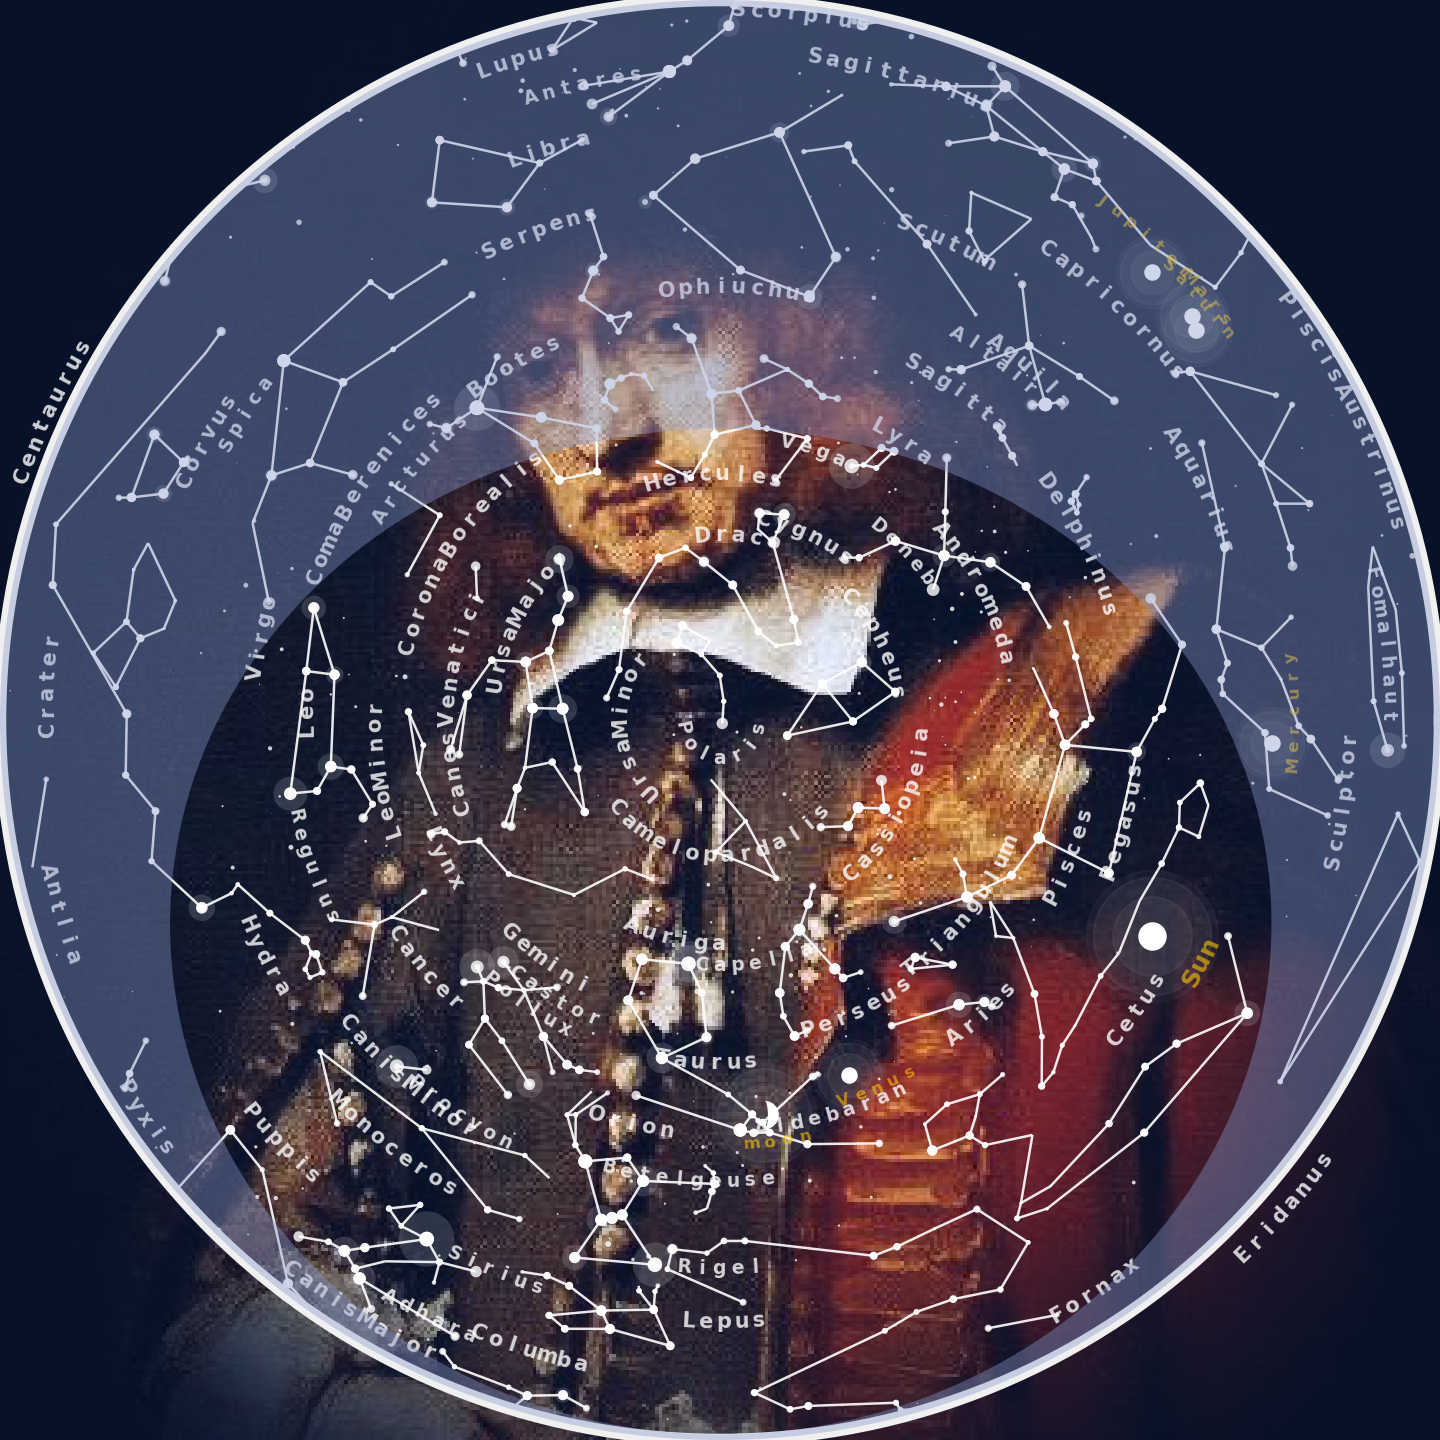
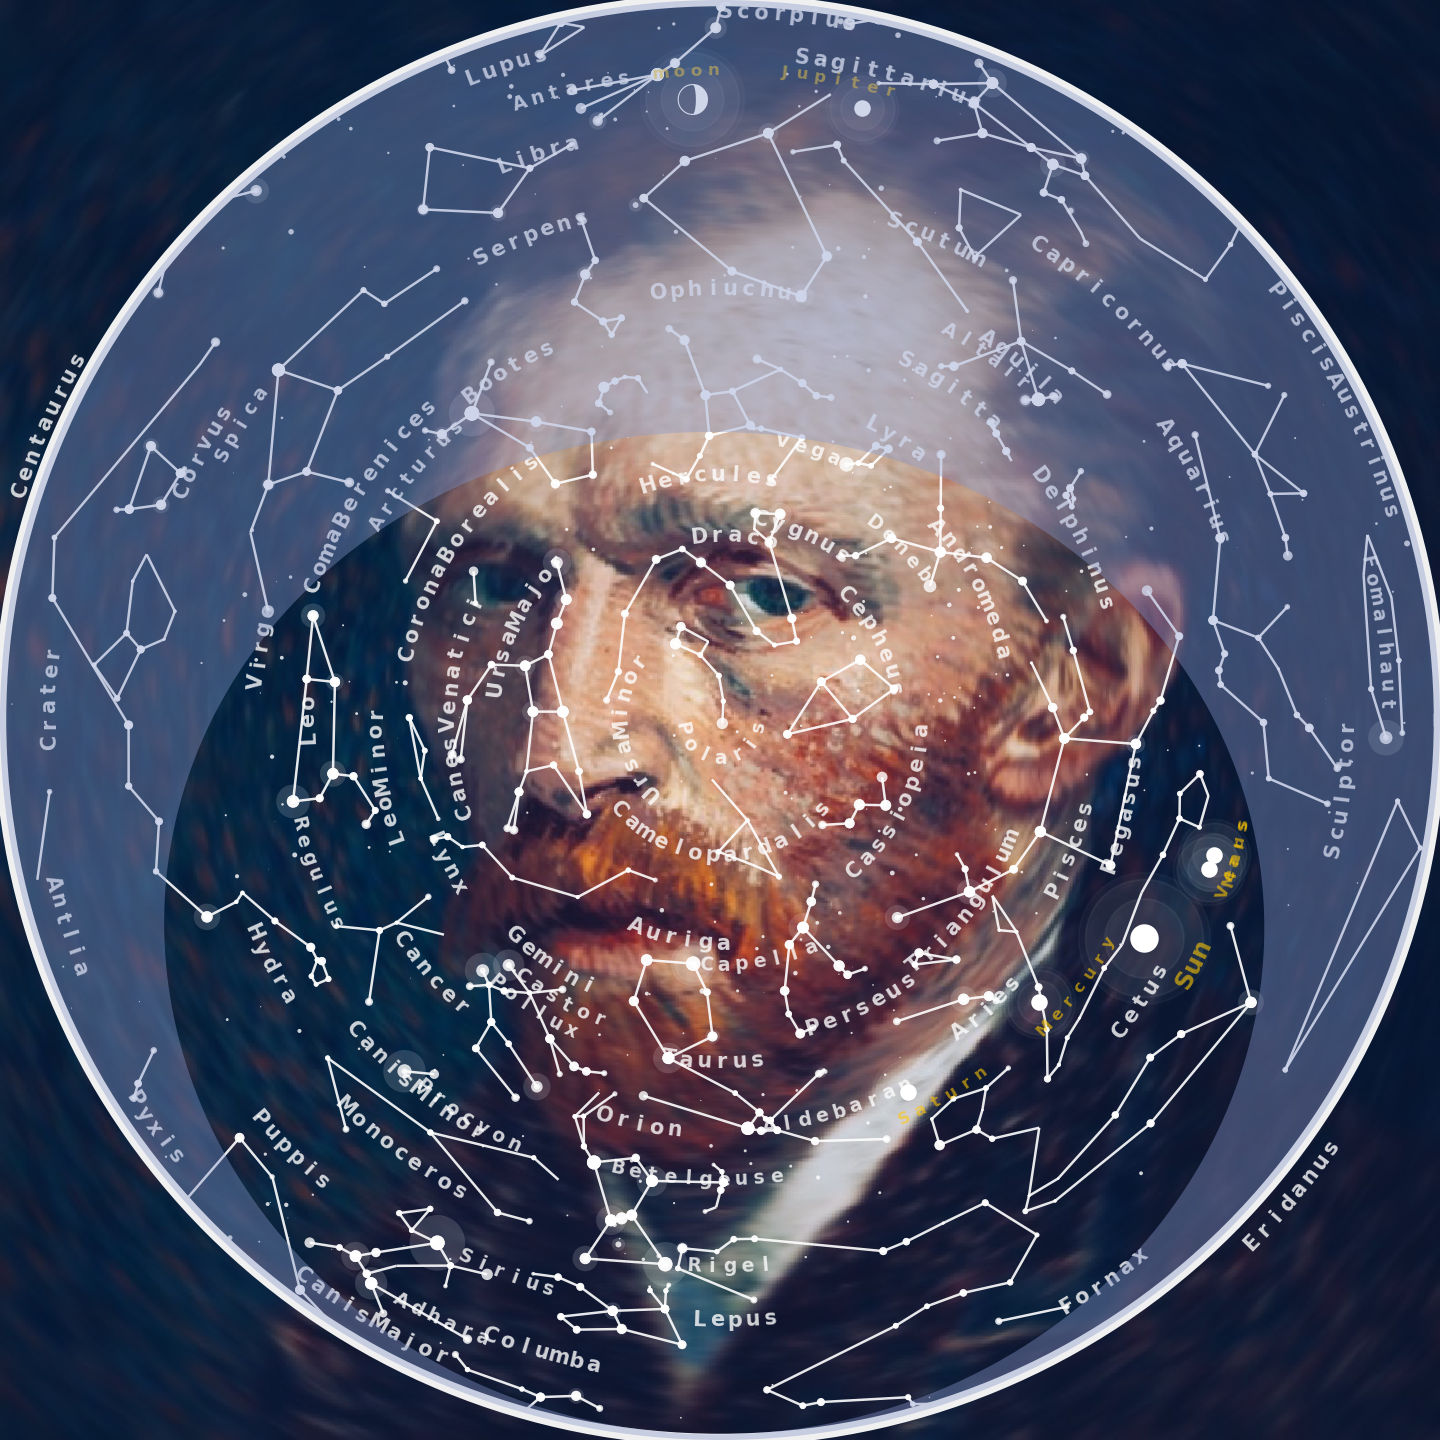
van Gogh

diff --git a/sky_map.py b/sky_map.py
@@ -23,7 +23,7 @@ from geopy.geocoders import Nominatim
 
 #obs_time = astropy.time.Time( datetime.utcnow() )
 
-custom_time = datetime(2020, 3, 30, 0, 0, 0, 00000)
+custom_time = datetime(1853, 3, 30, 0, 0, 0, 00000)
 utc_offset = (time.timezone if (time.localtime().tm_isdst==0) else time.altzone)/60/60*-1
 obs_time = astropy.time.Time(custom_time - timedelta(hours=modf(utc_offset)[1],
                                                      minutes=modf(utc_offset)[0]))
@@ -40,7 +40,7 @@ obs_time = astropy.time.Time(custom_time - timedelta(hours=modf(utc_offset)[1],
 #                             height=altitude*u.m )
 
 geolocator = Nominatim(user_agent='skymap')
-location = geolocator.geocode("Leiden", timeout=5)
+location = geolocator.geocode("Zundert", timeout=5)
 assert location is not None, 'location is not set'
 
 obs_loc = EarthLocation( lat=location.latitude*u.deg,
@@ -115,7 +115,7 @@ fig = plt.figure(dpi=dpi)
 fig.canvas.set_window_title('starmap-northern')
 
 # import image as background
-img = plt.imread('./res/rhine.jpg') #需要安装pillow
+img = plt.imread('./res/van.jpg') #需要安装pillow
 ax_image = fig.add_axes([0,0,1,1],label='img')
 ax_image.imshow(img,alpha=1)
 ax_image.axis('off')
@@ -451,7 +451,7 @@ def plot_moon(ax,obs_time,obs_loc):
     if symbol<0.2 or symbol > 25.8:
         symbol = '1'
     else:
-        symbol = chr(ord('a') + int(symbol + 0.5) - 1)
+        symbol = chr(ord('A') + int(symbol + 0.5) - 1)
     #print(symbol)
 
     # plot symbol, 
